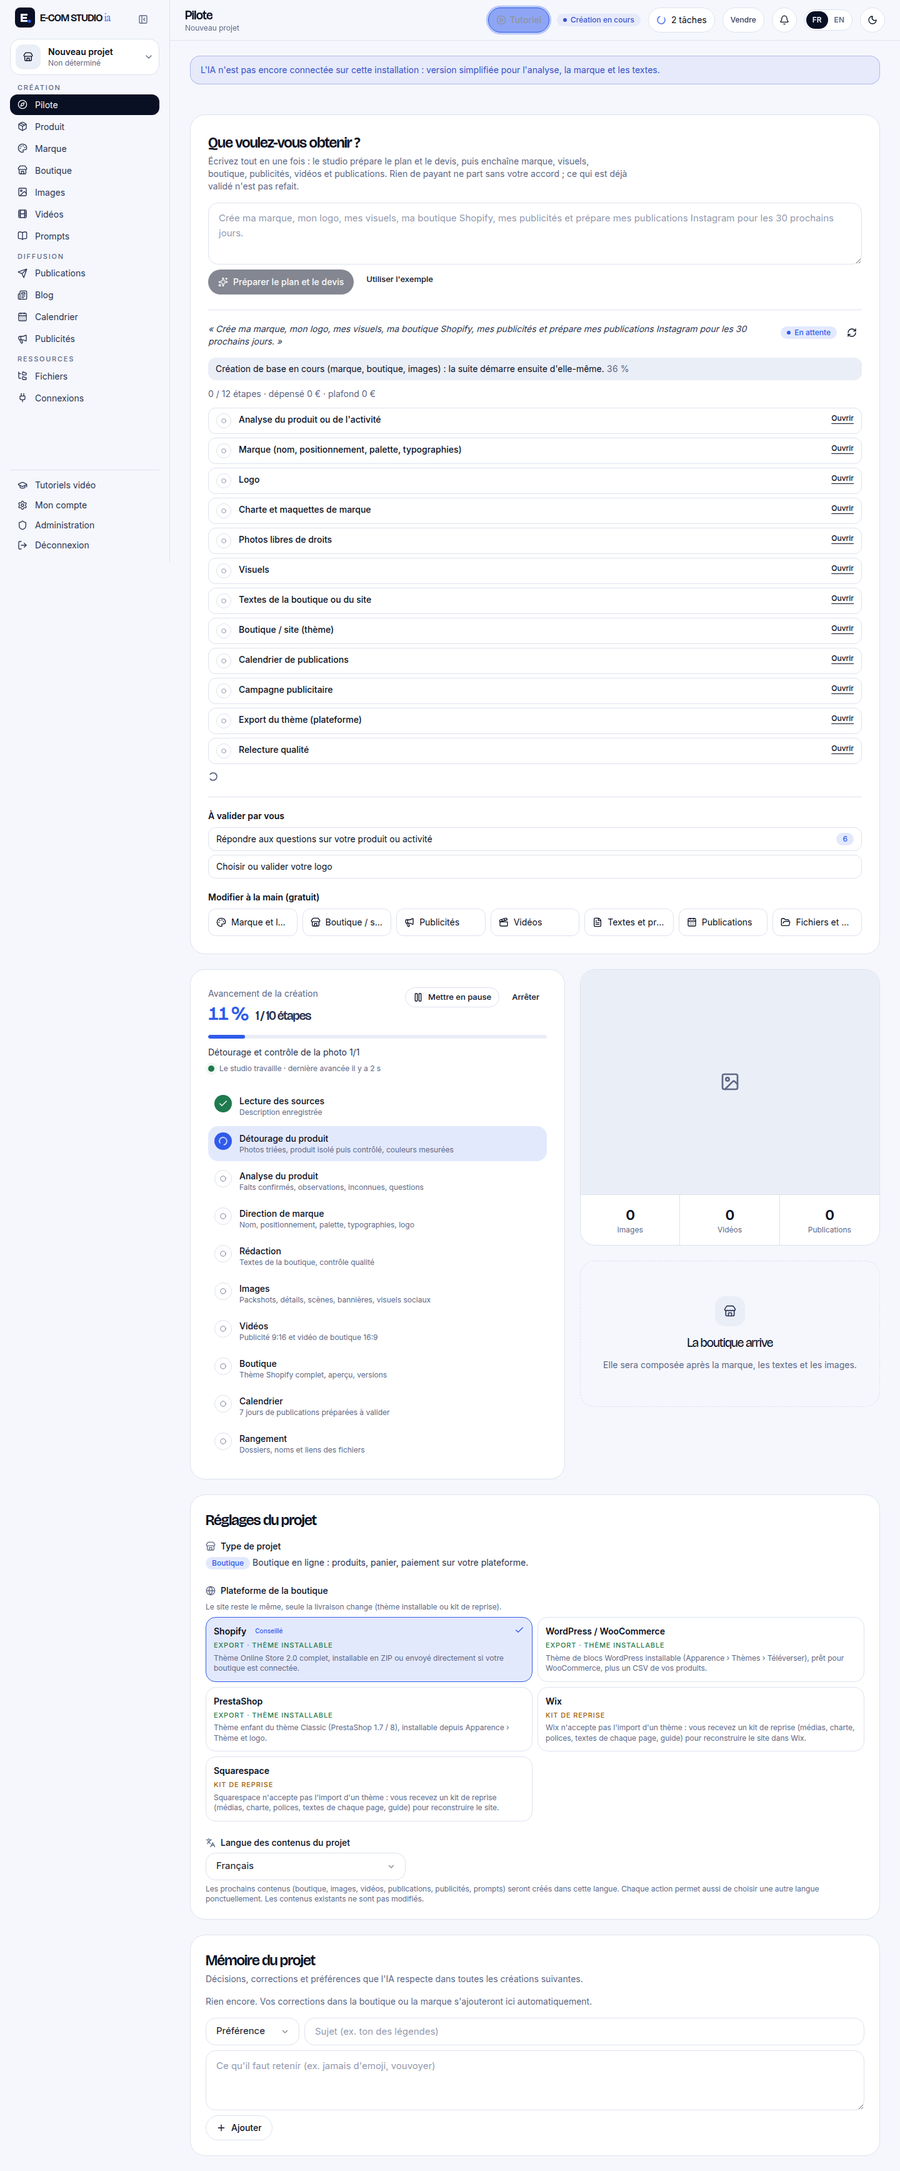
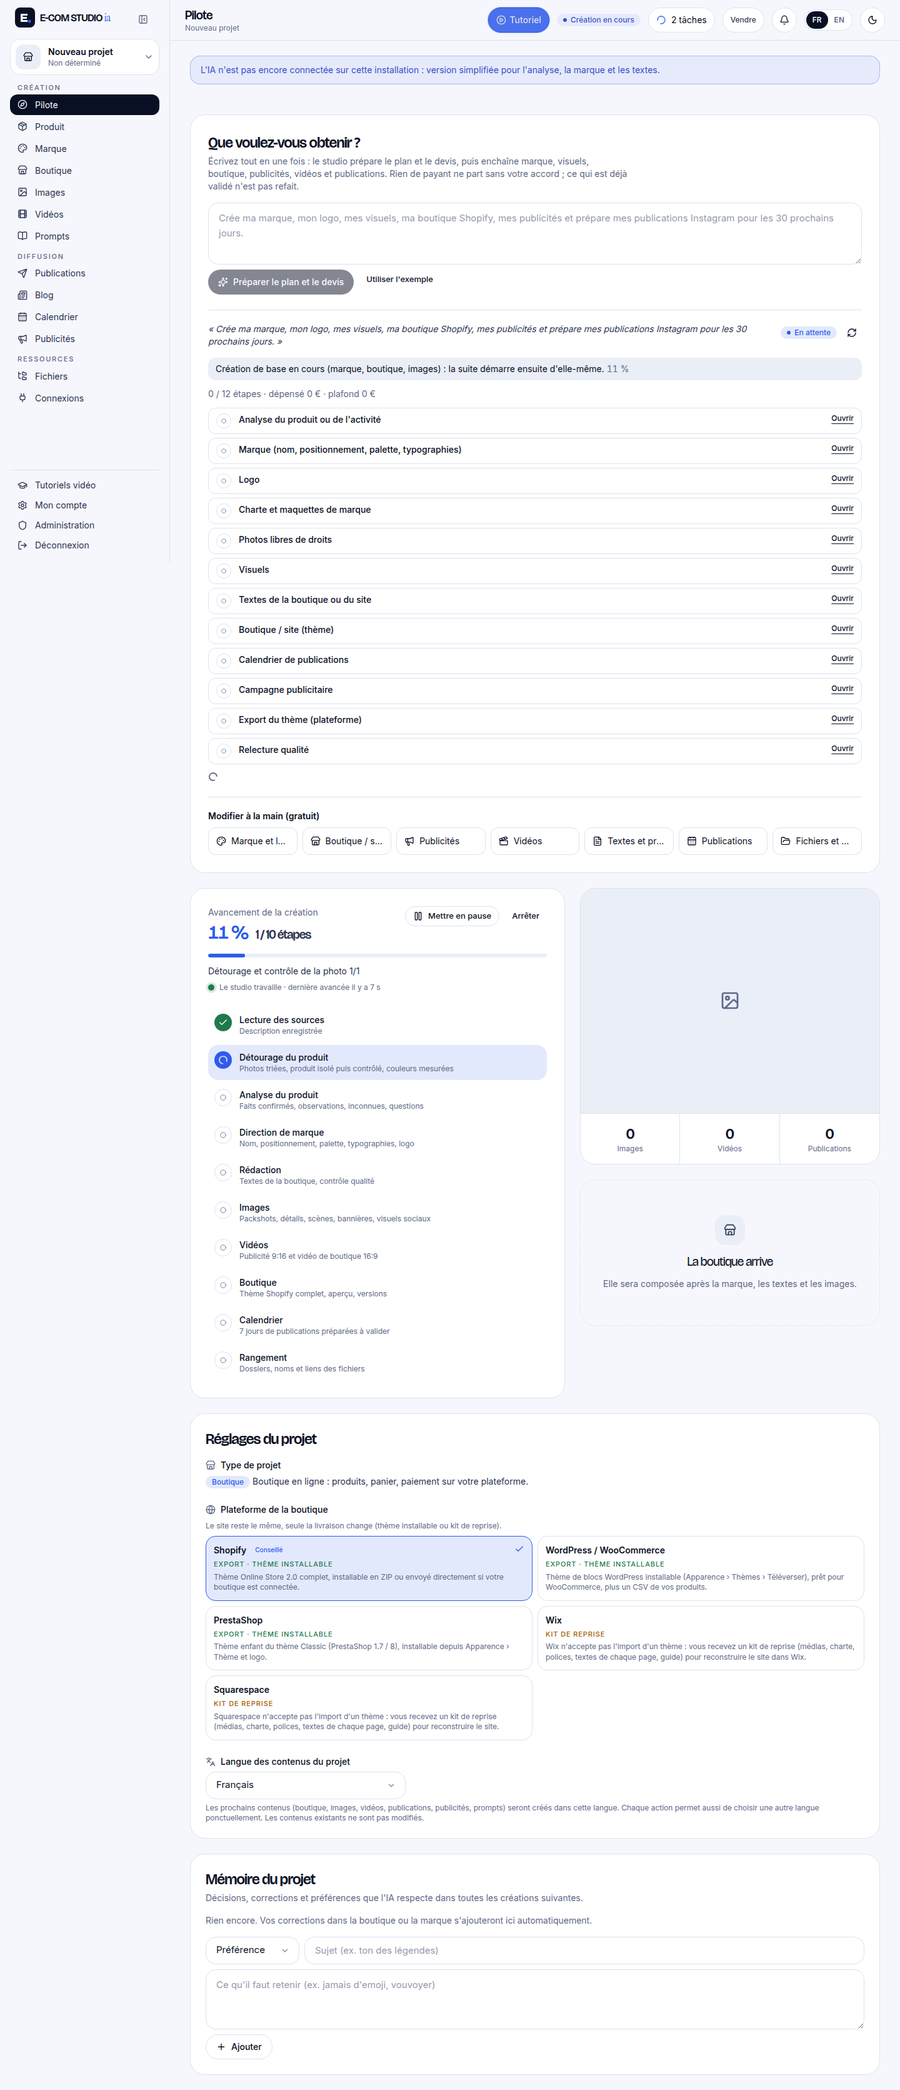
Phase 12A : corrections trouvées par les parcours navigateur (publications après création complète, boutique dans une demande en liste, débordement mobile), rapport et registre
- Une étape sautée par la création complète (calendrier remplacé) est faite par la demande
- « … et ma boutique Shopify » loin du verbe : boutique et export compris
- Mémoire du projet : résumé lisible de la propagation, plus de débordement sur téléphone
- Parcours navigateur 36/36 (ordinateur + téléphone, worker interrompu et repris, 0 appel d'IA)
- reports/phase-12A-report.md, reports/remaining-work.md, captures workflow-v2

Claude-Session: https://claude.ai/code/session_01Ea5ZG3FhmDTzePgMF5YRDN

diff --git a/scripts/e2e-workflow-v2.ts b/scripts/e2e-workflow-v2.ts
@@ -206,7 +206,7 @@ const w4 = await waitWf(w4id);
 check("4. Campagne + calendrier terminés", w4.status === "done", `${w4.status}${w4.error ? ` — ${w4.error}` : ""}`);
 const posts4 = all<{ network: string }>("SELECT network FROM posts WHERE plan_id = ?", `wf-social-${w4id}`);
 const nets4 = [...new Set(posts4.map((p) => p.network))].sort();
-check("4. Publications Instagram et Facebook sur 14 jours", nets4.join(",") === "facebook,instagram" && posts4.length >= 28, `${posts4.length} (${nets4.join(", ")})`);
+check("4. Publications Instagram et Facebook sur 14 jours (une par jour, réseaux alternés)", nets4.join(",") === "facebook,instagram" && posts4.length >= 14, `${posts4.length} (${nets4.join(", ")})`);
 check("4. Nouvelle campagne publicitaire enregistrée", one<{ n: number }>("SELECT COUNT(*) n FROM ad_documents WHERE project_id = ?", cosmetic)!.n > adsBefore);
 check("4. Les 30 publications de la première demande sont intactes", one<{ n: number }>("SELECT COUNT(*) n FROM posts WHERE plan_id = ?", `wf-social-${w1.id}`)!.n === 30);
 await page.reload({ waitUntil: "networkidle" });
@@ -215,11 +215,12 @@ await page.screenshot({ path: `${OUT}/09-suivi-campagne-calendrier.png`, fullPag
 
 // ── 5. Changement d'identité et propagation contrôlée ──────────────────────────────────────────────────────────
 const themeV = () => one<{ n: number }>("SELECT MAX(number) n FROM theme_versions WHERE project_id = ?", cosmetic)!.n;
-const v0 = themeV();
 const pal = JSON.parse(one<{ brand_json: string }>("SELECT brand_json FROM projects WHERE id = ?", cosmetic)!.brand_json).palette;
 // Même appel que l'éditeur de palette de l'onglet Marque.
 const patch = await page.request.patch(`${BASE}/api/projects/${cosmetic}/brand`, { data: { palette: { ...pal, primary: "#1F4E79", accent: "#2E8B57" }, paletteExact: true } });
 check("5. Nouvelle palette enregistrée (onglet Marque)", patch.ok(), String(patch.status()));
+// L'onglet Marque réapplique déjà la palette à la boutique quand une piste de logo est retenue (comportement existant).
+const v0 = themeV();
 await page.goto(`${BASE}/studio/${cosmetic}/marque`, { waitUntil: "networkidle" });
 await page.waitForSelector("[data-testid=brand-propagation]", { timeout: 30_000 }).catch(() => {});
 const items = (await page.locator("[data-testid=brand-propagation] li").allInnerTexts()).map((s) => s.replace(/\s+/g, " "));

diff --git a/src/lib/workflow/propagation.ts b/src/lib/workflow/propagation.ts
@@ -213,6 +213,15 @@ export type PropagationResult = { updated: { key: string; kind: ImpactKind; deta
  * Met à jour les créations CHOISIES (clés de brandImpact), localement et gratuitement. Une création modifiée par le
  * client n'est mise à jour que si `includeEdited` est vrai ; ce qui n'est pas « updatable » est seulement signalé.
  */
+/** Résumé lisible de la mise à jour (mémoire du projet) : nombre de créations par type, mises à jour et laissées. */
+function propagationSummary(res: PropagationResult) {
+  const NAMES: Record<ImpactKind, [string, string]> = { theme: ["boutique / site", "store / website"], ad: ["publicité(s)", "ad(s)"], post: ["publication(s)", "post(s)"], export: ["export(s)", "export(s)"], video: ["vidéo(s)", "video(s)"], text: ["texte(s)", "text(s)"] };
+  const count = new Map<ImpactKind, number>();
+  for (const u of res.updated) count.set(u.kind, (count.get(u.kind) ?? 0) + 1);
+  const parts = [...count].map(([k, n]) => `${n} ${L(NAMES[k][0], NAMES[k][1])}`);
+  return L(`Nouvelle identité appliquée : ${parts.join(", ") || "aucune création"} ; ${res.skipped.length} laissée(s) telle(s) quelle(s).`, `New identity applied: ${parts.join(", ") || "no creation"}; ${res.skipped.length} left as is.`);
+}
+
 export async function applyBrandUpdate(projectId: string, keys: string[], o: { includeEdited?: boolean; userId?: string } = {}): Promise<PropagationResult> {
   const p = loadProject(projectId);
   const impact = brandImpact(p);
@@ -275,6 +284,6 @@ export async function applyBrandUpdate(projectId: string, keys: string[], o: { i
       }
     }
   }
-  remember(p.id, { kind: "decision", key: "marque.propagation", value: JSON.stringify({ updated: res.updated.map((u) => u.key), skipped: res.skipped.map((s) => s.key) }), source: "user", scope: "brand" });
+  remember(p.id, { kind: "decision", key: "marque.propagation", value: propagationSummary(res), source: "user", scope: "brand" });
   return res;
 }

diff --git a/tests/workflow-v2.test.ts b/tests/workflow-v2.test.ts
@@ -147,6 +147,24 @@ describe("Studio Workflow V2", async () => {
     run("UPDATE jobs SET status = 'cancelled' WHERE id IN (?, ?)", pipe.id, w!.jobId);
   });
 
+  it("demande en liste : « … et ma boutique Shopify » loin du verbe → boutique et export Shopify", () => {
+    const { intents } = wf.parseWorkflowRequest("Crée ma marque high-tech, mon logo, mes visuels et ma boutique Shopify.", ["CREATE_BRAND", "GENERATE_IMAGE"]);
+    expect(intents).toEqual(expect.arrayContaining(["CREATE_SHOP", "EXPORT_CMS"]));
+    expect(wf.parseWorkflowRequest("Améliore la photo de ma boutique", ["GENERATE_IMAGE"]).intents).not.toContain("CREATE_SHOP");
+  });
+
+  it("calendrier sauté par la création complète (remplacé par la demande) : la demande le fait bien", async () => {
+    const { enqueue } = await import("@/lib/jobs");
+    const pipe = enqueue({ userId: vendre.id, projectId: cosmetic, type: "pipeline.run", payload: { projectId: cosmetic, skip: ["calendar"] } });
+    run("UPDATE jobs SET status = 'done', checkpoint = ? WHERE id = ?", JSON.stringify({ __steps: { brand: { status: "done" }, calendar: { status: "skipped" } } }), pipe.id);
+    const w = await fr(() => wf.prepareWorkflow(cosmetic, vendre.id, "Prépare mes publications Facebook pour les 7 prochains jours", { aiActive: false }));
+    const s = wf.startWorkflow(w.id, {});
+    run("UPDATE workflows SET pipeline_job_id = ? WHERE id = ?", pipe.id, w.id);
+    const r = await fr(() => wf.runWorkflow(ctxOf(s.jobId!)));
+    expect(r.steps.find((x) => x.kind === "social")?.status).toBe("done");
+    expect(one<{ n: number }>("SELECT COUNT(*) n FROM posts WHERE plan_id = ?", `wf-social-${w.id}`)!.n).toBe(7);
+  }, 120_000);
+
   it("demande incomprise : question de clarification, rien de lancé", async () => {
     const w = await fr(() => wf.prepareWorkflow(cosmetic, vendre.id, "Bonjour", { aiActive: false }));
     expect(w.status).toBe("needs_clarification");

diff --git a/src/lib/workflow/index.ts b/src/lib/workflow/index.ts
@@ -90,6 +90,9 @@ const sameAsk = (a: string, b: string) => norm(a).replace(/[\s.!]+/g, " ").trim(
 export function parseWorkflowRequest(text: string, intents: Intent[]): { intents: Intent[]; params: WorkflowParams } {
   const t = norm(text);
   const out = [...intents];
+  // Demande en liste (« Crée ma marque, mon logo, mes visuels et ma boutique Shopify ») : la boutique peut être loin
+  // du verbe ; elle est demandée dès qu'un verbe de création et « ma boutique / mon site » figurent dans la phrase.
+  if (!out.includes("CREATE_SHOP") && !out.includes("EDIT_THEME") && /\b(cree|creer|creez|fais|faites|construis|monte|lance|create|build|make)\b/.test(t) && /\b(ma|mon|une|un|my|a)\s+(nouvelle\s+|nouveau\s+|new\s+)?(boutique|site|shop|store|vitrine|website)\b/.test(t)) out.push("CREATE_SHOP");
   const cms = CMS_PLATFORMS.filter((pf) => t.includes(pf) || (pf === "woocommerce" && /\bwordpress\b/.test(t)));
   // « Ma boutique Shopify » : le thème est livré prêt à importer dans Shopify (export contrôlé, jamais envoyé seul).
   if (cms.length && !out.includes("EXPORT_CMS") && (out.includes("CREATE_SHOP") || out.includes("CREATE_THEME"))) out.push("EXPORT_CMS");
@@ -410,7 +413,7 @@ function markCoveredByCreation(plan: TaskPlan, pipelineJobId: string | null) {
     const s = plan.steps.find((x) => x.kind === kind && x.status === "pending");
     if (!s) continue;
     if (st.status === "done") applyResult(plan, s.id, { note: `done by the full creation (job ${pipelineJobId.slice(0, 8)})` });
-    else if (st.status === "skipped") Object.assign(s, { status: "skipped", reason: "skipped by the full creation" });
+    // Étape sautée par la création (ex. calendrier de 7 jours remplacé par celui de la demande) : la demande la fait.
   }
   // Photos libres : la création complète a déjà cherché et composé les visuels.
   if (steps.images?.status === "done") {

diff --git a/src/components/studio/tab-pilote.tsx b/src/components/studio/tab-pilote.tsx
@@ -119,7 +119,7 @@ function Memory() {
             <Brain className="mt-0.5 size-4 shrink-0 text-signal" />
             <div className="min-w-0 flex-1">
               <p><Badge tone="neutral">{KIND[m.kind] ?? m.kind}</Badge> <span className="font-medium">{m.key}</span></p>
-              <p className="mt-1 break-words text-ink-2">{m.value}</p>
+              <p className="mt-1 min-w-0 text-ink-2 [overflow-wrap:anywhere]">{m.value}</p>
             </div>
             <button onClick={async () => { await api(`/api/projects/${id}/memory?item=${m.id}`, { method: "DELETE" }); reload(); }} className="grid size-8 place-items-center rounded-full hover:bg-paper-2" aria-label={t("Oublier", "Forget")}><Trash2 className="size-4 text-muted" /></button>
           </li>

diff --git a/reports/phase-12A-report.md b/reports/phase-12A-report.md
@@ -1,0 +1,103 @@
+# Phase 12A — Studio Integration & AI Workflow V2
+
+Statut : **terminée techniquement, non fusionnée** (en attente de la validation du propriétaire). 12B et Phase 13 non
+commencées. Tout a été testé avec les **moteurs locaux et des fournisseurs simulés** : aucun appel d'IA payant, aucune
+clé utilisée.
+
+## Ce que le client peut faire maintenant
+
+Une seule demande, écrite soit dans le formulaire de création (champ « Tout ce que vous voulez obtenir »), soit dans
+le Pilote (« Que voulez-vous obtenir ? »), par exemple :
+
+> Crée ma marque, mon logo, mes visuels, ma boutique Shopify, mes publicités et prépare mes publications Instagram
+> pour les 30 prochains jours.
+
+Le studio :
+1. **comprend** la demande (Intent existant + lecture des paramètres : jours, réseaux, plateforme CMS) ;
+2. **planifie** avec l'orchestrateur existant (Planner / Router V2, `task_plans`) — aucun second orchestrateur ;
+3. **chiffre** chaque module (devis par ligne : local gratuit, IA payante, déjà fait, non inclus dans le forfait) ;
+4. **attend l'accord** si le devis dépasse 0 € (case à cocher + plafond en euros ; refus si plafond < devis) ;
+5. **exécute** par les moteurs V2 existants : création complète (pipeline) puis Brand/Logo, Image, Ads V2, Social V2
+   (calendrier + production des visuels), SEO, Theme, CMS V2 (export contrôlé), Quality Gate ;
+6. **suit** chaque étape (statut, verdict, note, nombre d'essais, coût réel par étape, plafond) avec un lien
+   « Ouvrir » vers l'éditeur concerné, et un bouton « Réessayer » qui ne refait pas les étapes réussies ;
+7. **liste ce qui attend le client** (questions, logo, publications à approuver, publicités à relire, thème à
+   installer) — rien n'est validé à sa place, rien n'est publié ;
+8. **regroupe les éditeurs** (marque, boutique, publicités, vidéos, textes, publications, fichiers) : les
+   modifications à la main restent gratuites.
+
+Changement d'identité (nom, palette, typographies, logo) : une carte « Votre identité a changé » (onglets Marque et
+Pilote) liste les créations faites avec l'ancienne identité ; le client coche ce qu'il veut mettre à jour (local,
+gratuit, nouvelle version, l'ancienne reste). Les créations modifiées à la main ne sont touchées que sur demande
+expresse ; les publications déjà approuvées repassent en approbation ; vidéos et textes sont signalés (à reprendre
+dans l'éditeur).
+
+## Ce qui a été intégré (code)
+
+| Élément | Fichier |
+|---|---|
+| Demande unique : préparation, devis, autorisation, plafond, lancement, annulation, suivi, validations | `src/lib/workflow/index.ts` |
+| Propagation contrôlée de la marque (impact, recoloration des pubs/thème/visuels, contrastes) | `src/lib/workflow/propagation.ts` |
+| Historique des identités (pour savoir avec quelle marque chaque création a été faite) | `src/lib/brand-versions.ts`, table `brand_versions` |
+| Tâche de fond `workflow.run` (attend la création complète via `dependsOn`) | `worker/handlers.ts` |
+| Intention `EXPORT_CMS`, étape `cms_export` du plan | `src/lib/orchestrator/{intent,planner,execute}.ts` |
+| Étape « publications » du plan sur Social V2 (calendrier idempotent + production) | `src/lib/orchestrator/execute.ts` |
+| Export CMS partagé (écran « Exporter » et plan) | `src/lib/cms-v2/record.ts` |
+| Création complète : calendrier de 7 jours sauté quand la demande en prévoit un | `src/lib/engine/pipeline.ts`, `src/lib/project-start.ts` |
+| API | `/api/projects/[id]/workflow`, `/workflow/[wid]`, `/brand/impact` |
+| Interface | `src/components/studio/workflow-panel.tsx` (Pilote + Marque), champ de demande dans `home.tsx` |
+
+Garde-fous :
+- **Découverte = 0 € d'IA** : export, visuels, publicités, vidéos et calendrier ne sont pas faits (raison affichée).
+- Le compte administrateur suit son forfait (même règle que les clients).
+- Aucune action payante sans devis accepté ; plafond vérifié avant chaque étape payante ; coût réel par étape lu
+  dans `ai_calls`.
+- **Pas de doublon** : tâche unique par demande (`wf:<id>:run`), calendrier identifié par la demande (clés
+  `v2:<plan>:…`), étapes déjà faites par la création complète marquées « faites » et non refaites ; la **même demande
+  renvoyée dans les 24 h** reprend la demande existante au lieu de tout refaire.
+- Coordonnées saisies à la création : jamais redemandées ni effacées (non touchées par 12A).
+
+## Tests
+
+- `npx tsc --noEmit` : OK.
+- `npx vitest run` : **111 fichiers, 952 tests, tous réussis** (dont `tests/workflow-v2.test.ts`, 11 tests).
+- `npm run build` : OK.
+- **Parcours navigateur réels** (`scripts/e2e-workflow-v2.ts`, Chromium, serveur `next start` + vrai worker, base de
+  démonstration, forfait Vendre attribué à la main, aucune clé d'IA) : **36/36 vérifications réussies**, **0 appel
+  d'IA**, aucune erreur JavaScript.
+
+| Parcours | Résultat vérifié |
+|---|---|
+| 1. Boutique cosmétique à partir d'une photo (+ demande type) | Création + demande liées ; worker **coupé brutalement à 38 %** puis relancé → la demande va au bout ; 30 publications Instagram (aucune publiée), 9 publicités V2, export Shopify contrôlé, marque et logo ; 1 seule création et 1 seule exécution ; pas de second calendrier ; même demande renvoyée → rien refait |
+| 2. Plâtrier-peintre à partir d'une description | Site + 14 jours de publications Facebook, export WordPress contrôlé, aucune mention de vente en ligne |
+| 3. Marque high-tech (drone) | Marque, palette, typographies, boutique, export Shopify ; pas de publicités ni publications non demandées |
+| 4. Campagne publicitaire + calendrier (depuis le Pilote) | Devis 0 € affiché par module, rien lancé avant « Lancer », 14 publications Instagram/Facebook, nouvelle campagne, les 30 publications du parcours 1 intactes |
+| 5. Changement d'identité | Nouvelle palette → 24 créations listées, mise à jour contrôlée locale (nouvelles versions des pubs, visuels refaits à réapprouver, export refait) |
+| 6. Téléphone (390 px) | Pilote, Marque et formulaire lisibles, sans débordement horizontal |
+
+Captures : `reports/screenshots/workflow-v2/` (01 à 14) et `resultats.json`.
+
+Défauts trouvés par ces parcours et **corrigés** :
+- les publications demandées n'étaient pas faites après une création complète (étape marquée « sautée ») ;
+- « … et ma boutique Shopify » placé loin du verbe n'était pas compris (boutique et export oubliés) ;
+- débordement horizontal du Pilote sur téléphone (mémoire du projet : résumé de propagation illisible, désormais une
+  phrase « Nouvelle identité appliquée : 9 publicité(s), … ») ;
+- compte de démonstration resté en Découverte (le studio refusait correctement : règle respectée).
+
+## Ce qui n'est PAS vérifié / limites
+
+- **Aucun fournisseur d'IA réel** : devis IA, accord, plafond et arrêt au plafond testés en code (tests unitaires)
+  avec des fournisseurs simulés, pas avec de vraies dépenses. Qualité des contenus = moteurs locaux.
+- Photo cosmétique **synthétique** (flacon dessiné) ; photo drone = photo de démonstration du dépôt.
+- Recherche de photos libres **hors ligne** pendant les parcours (`STOCK_OFFLINE=1`).
+- Reprise testée sur la création complète (worker coupé à 38 %) ; coupure pendant l'étape « demande » couverte
+  seulement par les tests unitaires (relance de la même tâche, sans doublon).
+- Palette changée par le même appel que l'éditeur de palette de l'onglet Marque (pas en cliquant dans le sélecteur).
+  Cet éditeur **réapplique déjà la palette à la boutique** (comportement existant) : la propagation n'a donc pas créé
+  de nouvelle version de boutique dans ce parcours (testée dans les tests unitaires).
+- « 14 jours Instagram et Facebook » = une publication par jour, réseaux alternés (7 + 7), pas 14 par réseau.
+- Liste de propagation longue (une ligne par création, pas de regroupement par type).
+- Vidéos et textes : seulement signalés lors d'un changement d'identité, pas refaits automatiquement.
+- Dossiers / sous-dossiers : rangement existant réutilisé (aucun nouveau dossier par demande).
+- Automatisations : la reprise d'une demande identique couvre 24 h ; pas encore de demande récurrente programmée.
+- Chromium seulement ; ni Safari, ni Firefox, ni vraie tablette.

diff --git a/reports/remaining-work.md b/reports/remaining-work.md
@@ -4,10 +4,11 @@ Tenu à jour à chaque phase. Rien de ce qui figure ici n'est présenté comme f
 Règle pour les phases 6, 7, 9 et 10 : réutiliser **en priorité l'Image Engine V2** (`src/lib/image-v2/`) et, pour
 les publicités, l'**Advertising Engine V2** (`src/lib/ads-v2/`), plutôt que créer des moteurs d'images concurrents.
 
-Dernière mise à jour : phase 11A (CMS Integration Engine V2) terminée techniquement, **non fusionnée**, en attente
-de la validation du propriétaire ; 11B non commencée. Phase 10A validée techniquement et fusionnée (PR #62) ;
-**qualité visuelle finale avec les vrais fournisseurs d'IA NON VALIDÉE** ; 10B non commencée ; 9A validée techniquement, 9B reportée ; 8A validée techniquement,
-8B reportée.
+Dernière mise à jour : phase 12A (Studio Integration & AI Workflow V2) terminée techniquement, **non fusionnée**, en
+attente de la validation du propriétaire ; 12B et Phase 13 non commencées. Phase 11A validée techniquement et
+fusionnée (PR #63, commit 6cce305) ; 11B non commencée. Phase 10A fusionnée (PR #62) ; **qualité visuelle finale avec
+les vrais fournisseurs d'IA NON VALIDÉE** ; 10B non commencée ; 9A validée techniquement, 9B reportée ; 8A validée
+techniquement, 8B reportée.
 
 **Règle pour la Phase 10 (Theme Engine V2) et les suivantes** : tests visuels réels dans un navigateur, avec
 captures ordinateur ET téléphone, dès le développement technique. Les tests de code seuls ne suffisent pas.
@@ -202,6 +203,22 @@ Reste à faire (limites de 10A) :
   projets dont la version actuelle est V1 tant qu'ils ne sont pas recomposés ; réglage de projet `themeEngine: "v1"`.
 - La CI GitHub vérifie le thème V2 par `tests/theme-v2.test.ts` (Theme Check d'un ZIP V2) ; `scripts/verify-theme.sh`
   couvre les directions V1.
+
+## Studio Workflow V2 (phase 12A) — fait et ce qui reste
+
+Fait (100 % local, 0 €) : demande unique (formulaire de création ou Pilote) → plan de l'orchestrateur existant → devis
+par module → accord + plafond si payant → exécution par les moteurs V2 (création complète, Ads V2, Social V2, CMS V2,
+SEO, Theme, Quality Gate) → suivi (étapes, verdicts, coûts réels, reprises) → éléments à valider → éditeurs. Propagation
+contrôlée d'un changement d'identité (pubs, boutique, visuels de publications, exports). Rapport :
+`reports/phase-12A-report.md` ; parcours navigateur `scripts/e2e-workflow-v2.ts` (36/36).
+
+Reste à faire (limites de 12A) :
+- Devis, accord, plafond et arrêt au plafond **jamais testés avec un vrai fournisseur d'IA** (fournisseurs simulés).
+- Changement d'identité : vidéos et textes seulement signalés (pas refaits) ; liste non regroupée par type.
+- Pas de demande récurrente programmée (automatisation) ; la reprise d'une demande identique couvre 24 h.
+- Pas de dossier dédié par demande (rangement existant réutilisé).
+- Reprise après coupure du worker testée en navigateur pendant la création complète seulement.
+- Parcours testés avec recherche de photos hors ligne, photo cosmétique synthétique ; Chromium seulement.
 
 ## CMS Integration Engine V2 (phase 11A) — fait et ce qui reste
 
